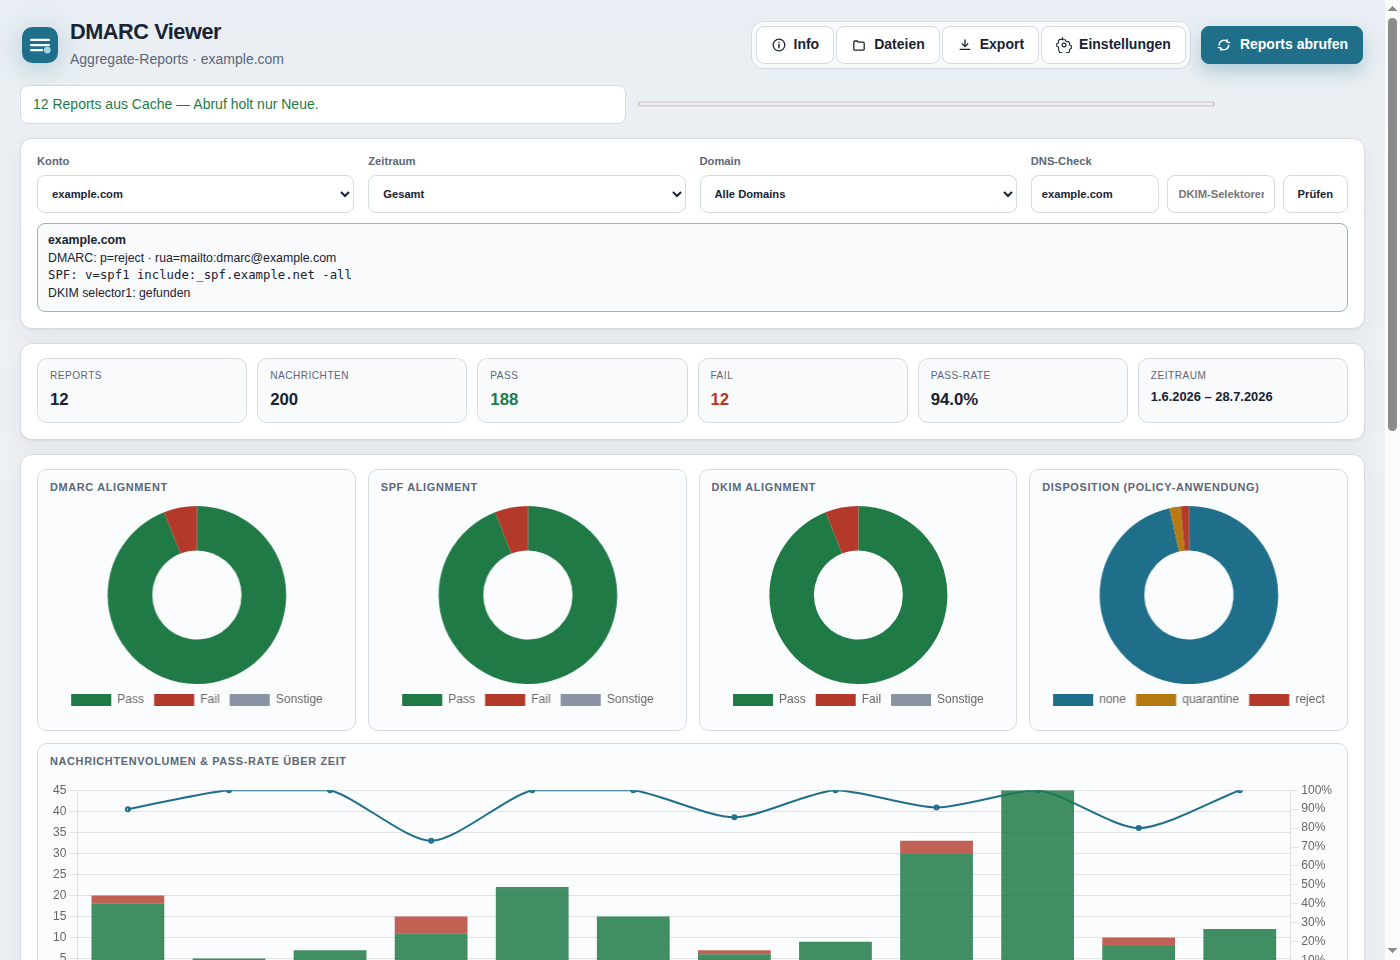
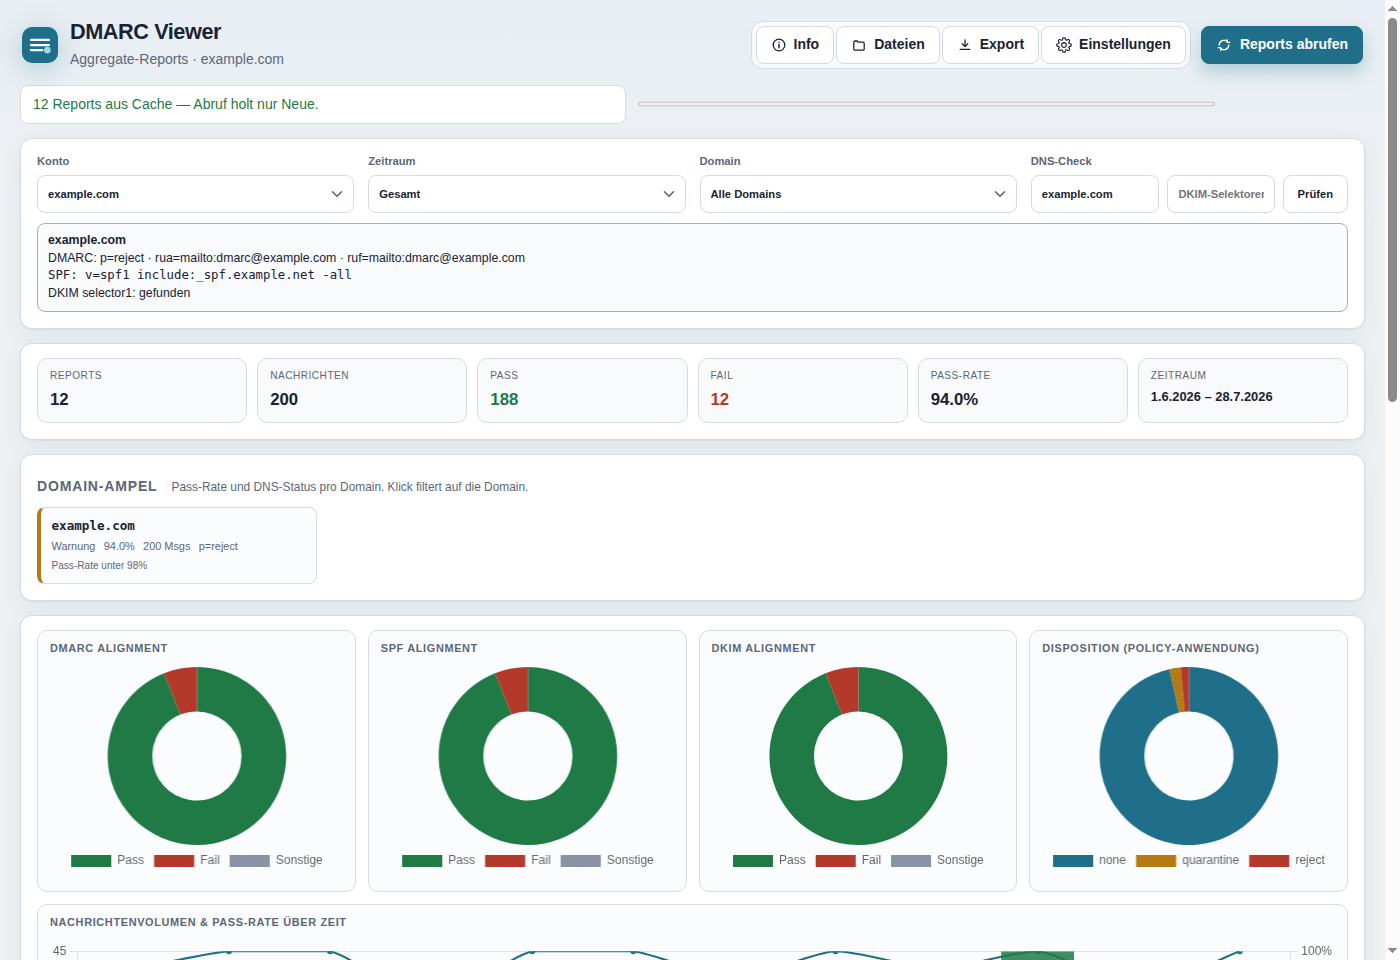
Release v1.0.7.
Refresh README screenshots and German docs, bump the version, and harden IMAP archive moves (sweep leftover inbox matches, clearer move errors).

diff --git a/src/main/imap.ts b/src/main/imap.ts
@@ -404,7 +404,7 @@ async function moveMessages(
         if (!copied) {
           throw new Error(t('imap.moveRejected', { mailbox: destPath }))
         }
-        const deleted = await client.messageDelete(chunk, { uid: true, silent: true })
+        const deleted = await client.messageDelete(chunk, { uid: true })
         if (!deleted) {
           throw new Error(t('imap.moveRejected', { mailbox: destPath }))
         }
@@ -495,16 +495,23 @@ export async function fetchAndAnalyze(
       const totalFetched = sourceFetch.uidList.length + archiveFetch.uidList.length
 
       if (totalFetched === 0) {
+        const notes: string[] = []
+        if (archiveMailbox) {
+          notes.push(
+            ...(await sweepSourceToArchive(client, settings, archiveMailbox, onProgress))
+          )
+        }
+        const base =
+          cached.reports.length > 0 || cached.forensicReports.length > 0
+            ? t('imap.noNewCached', { count: cached.reports.length })
+            : t('imap.noneFound')
         onProgress({
           phase: 'done',
           processed: 0,
           total: 0,
           parsed: cached.reports.length,
           skipped: 0,
-          message:
-            cached.reports.length > 0 || cached.forensicReports.length > 0
-              ? t('imap.noNewCached', { count: cached.reports.length })
-              : t('imap.noneFound')
+          message: notes.length ? `${base} ${notes.join(' ')}` : base
         })
         return analyzeFromReports(cached.reports, {
           fromCache: true,
@@ -569,39 +576,26 @@ export async function fetchAndAnalyze(
 
       const notes: string[] = []
 
-      // Mark \\Seen on source UIDs before moving (MOVE invalidates source UIDs).
-      if (settings.markSeenAfterFetch) {
+      // Mark \\Seen on archive UIDs first; source mails are handled by the sweep
+      // (mark + move) so leftover inbox matches are cleaned up too.
+      if (settings.markSeenAfterFetch && archiveMailbox && archiveFetch.uidList.length > 0) {
         try {
-          if (sourceFetch.uidList.length > 0) {
-            await markSeen(client, settings.mailbox, sourceFetch.uidList)
-            notes.push(t('imap.markSeenOk', { count: sourceFetch.uidList.length }))
-          }
-          if (archiveMailbox && archiveFetch.uidList.length > 0) {
-            await markSeen(client, archiveMailbox, archiveFetch.uidList)
-          }
+          await markSeen(client, archiveMailbox, archiveFetch.uidList)
         } catch (err) {
           notes.push(t('imap.markSeenFailed', { detail: formatImapError(err) }))
         }
       }
 
-      if (archiveMailbox && sourceFetch.uidList.length > 0) {
+      if (archiveMailbox) {
+        notes.push(
+          ...(await sweepSourceToArchive(client, settings, archiveMailbox, onProgress))
+        )
+      } else if (settings.markSeenAfterFetch && sourceFetch.uidList.length > 0) {
         try {
-          const destPath = await resolveServerMailboxPath(client, archiveMailbox)
-          await moveMessages(
-            client,
-            settings.mailbox,
-            sourceFetch.uidList,
-            destPath,
-            onProgress
-          )
-          notes.push(
-            t('imap.movedNote', {
-              count: sourceFetch.uidList.length,
-              mailbox: destPath
-            })
-          )
+          await markSeen(client, settings.mailbox, sourceFetch.uidList)
+          notes.push(t('imap.markSeenOk', { count: sourceFetch.uidList.length }))
         } catch (err) {
-          notes.push(t('imap.moveFailed', { detail: formatImapError(err) }))
+          notes.push(t('imap.markSeenFailed', { detail: formatImapError(err) }))
         }
       }
 

diff --git a/src/shared/i18n.ts b/src/shared/i18n.ts
@@ -357,6 +357,7 @@ const de = {
   'imap.movedNote': '{count} Nachricht(en) nach „{mailbox}" verschoben.',
   'imap.moveFailed': 'Verschieben fehlgeschlagen: {detail}',
   'imap.moveRejected': 'Verschieben nach „{mailbox}" wurde vom Server abgelehnt.',
+  'imap.moveSameFolder': 'Quell- und Archiv-Ordner sind identisch — Verschieben übersprungen.',
   'imap.markSeenOk': '{count} Nachricht(en) als gelesen markiert.',
   'imap.markSeenFailed': 'Als gelesen markieren fehlgeschlagen: {detail}',
   'imap.createMailboxEmpty': 'Bitte einen Ordnernamen angeben.',
@@ -728,6 +729,7 @@ const en: Dict = {
   'imap.movedNote': 'Moved {count} message(s) to “{mailbox}".',
   'imap.moveFailed': 'Move failed: {detail}',
   'imap.moveRejected': 'Move to “{mailbox}" was rejected by the server.',
+  'imap.moveSameFolder': 'Source and archive folders are the same — move skipped.',
   'imap.markSeenOk': 'Marked {count} message(s) as read.',
   'imap.markSeenFailed': 'Mark as read failed: {detail}',
   'imap.createMailboxEmpty': 'Please enter a folder name.',

diff --git a/README.de.md b/README.de.md
@@ -203,7 +203,13 @@ npm run build:win     # NSIS + portable
 npm run build:mac     # DMG/ZIP (nur auf macOS)
 ```
 
-GitHub Release (alle Plattformen via Actions): Tag wie `v1.0.5` pushen oder Workflow **Release** manuell starten.
+README-Screenshots neu erzeugen (Demo-Daten, ohne echte Zugangsdaten):
+
+```bash
+npm run screenshots
+```
+
+GitHub Release (alle Plattformen via Actions): Tag wie `v1.0.7` pushen oder Workflow **Release** manuell starten.
 
 ### Technik
 
@@ -211,6 +217,7 @@ GitHub Release (alle Plattformen via Actions): Tag wie `v1.0.5` pushen oder Work
 - IMAP: [`imapflow`](https://github.com/postalsys/imapflow)
 - Parsing: [`@koduhai/dmarc-parser`](https://www.npmjs.com/package/@koduhai/dmarc-parser)
 - Charts: [Chart.js](https://www.chartjs.org/)
+- GeoIP: [`maxmind`](https://www.npmjs.com/package/maxmind) (GeoLite2) + optionaler Online-Fallback
 - Updates: [`electron-updater`](https://www.electron.build/auto-update) über GitHub Releases
 - Tests: [Vitest](https://vitest.dev/)
 
@@ -218,11 +225,11 @@ GitHub Release (alle Plattformen via Actions): Tag wie `v1.0.5` pushen oder Work
 
 ## Hinweise & Grenzen
 
-- Failure-/RUF-Reports werden nicht ausgewertet.
+- Forensik-/RUF-Zeilen zeigen nur bereinigte Header — Nachrichteninhalte werden weder gespeichert noch angezeigt.
 - Nachrichten ohne gültigen DMARC-Anhang werden übersprungen und gezählt.
 - Einstellungen und Report-Caches liegen unter dem Electron-`userData`-Pfad (nicht im Repo); jedes IMAP-Konto hat einen eigenen Cache.
 - Cache leeren: Einstellungen → IMAP-Konto → **Cache dieses Kontos leeren** (nächster Abruf holt für dieses Konto wieder alles).
-- Optional können abgerufene Nachrichten als gelesen markiert werden (`\Seen`).
+- Optional können abgerufene Nachrichten als gelesen markiert (`\Seen`) und/oder nach dem Import in einen Archiv-Ordner verschoben werden.
 - Mit aktivem System-Tray blendet das Schließen des Fensters die App nur aus — vollständig beenden über **Beenden** im Tray-Menü.
 - Bestehende Einzelkonto-Einstellungen älterer Versionen werden automatisch ins Multi-Konto-Format migriert.
 
